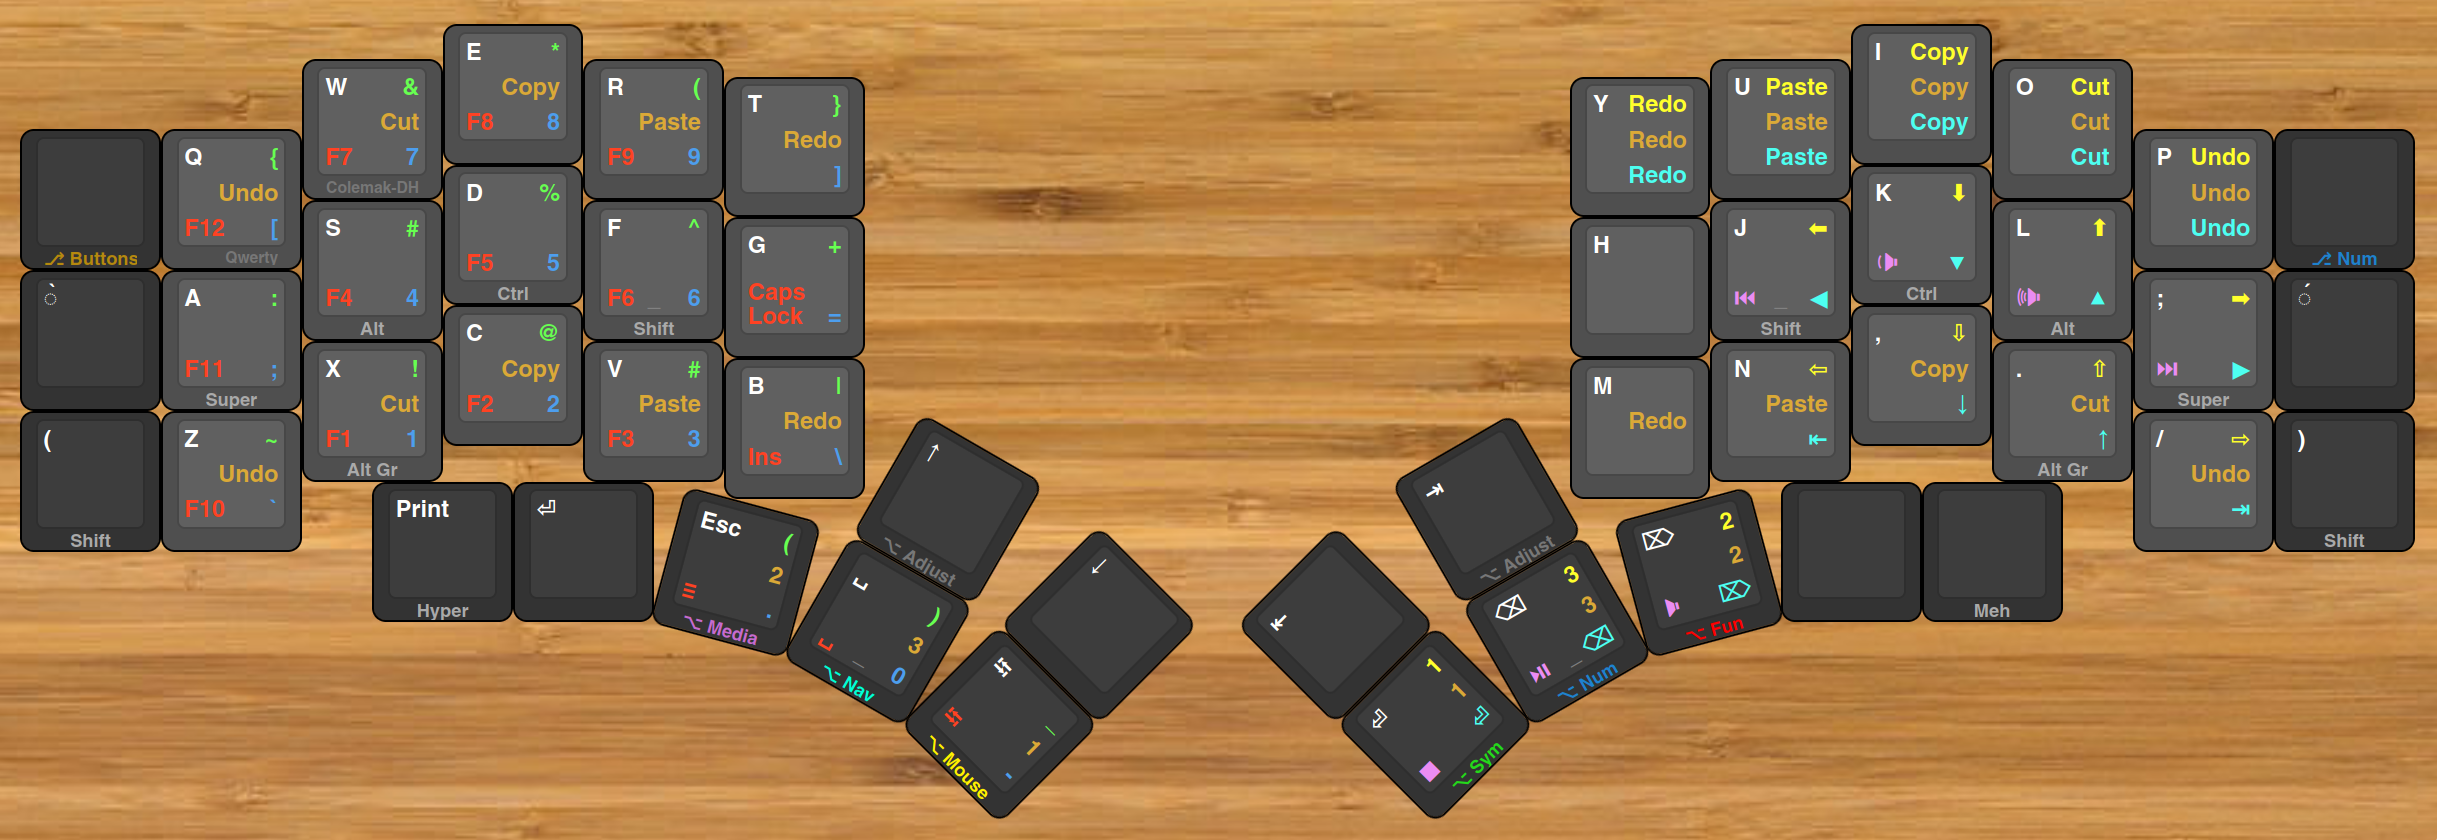
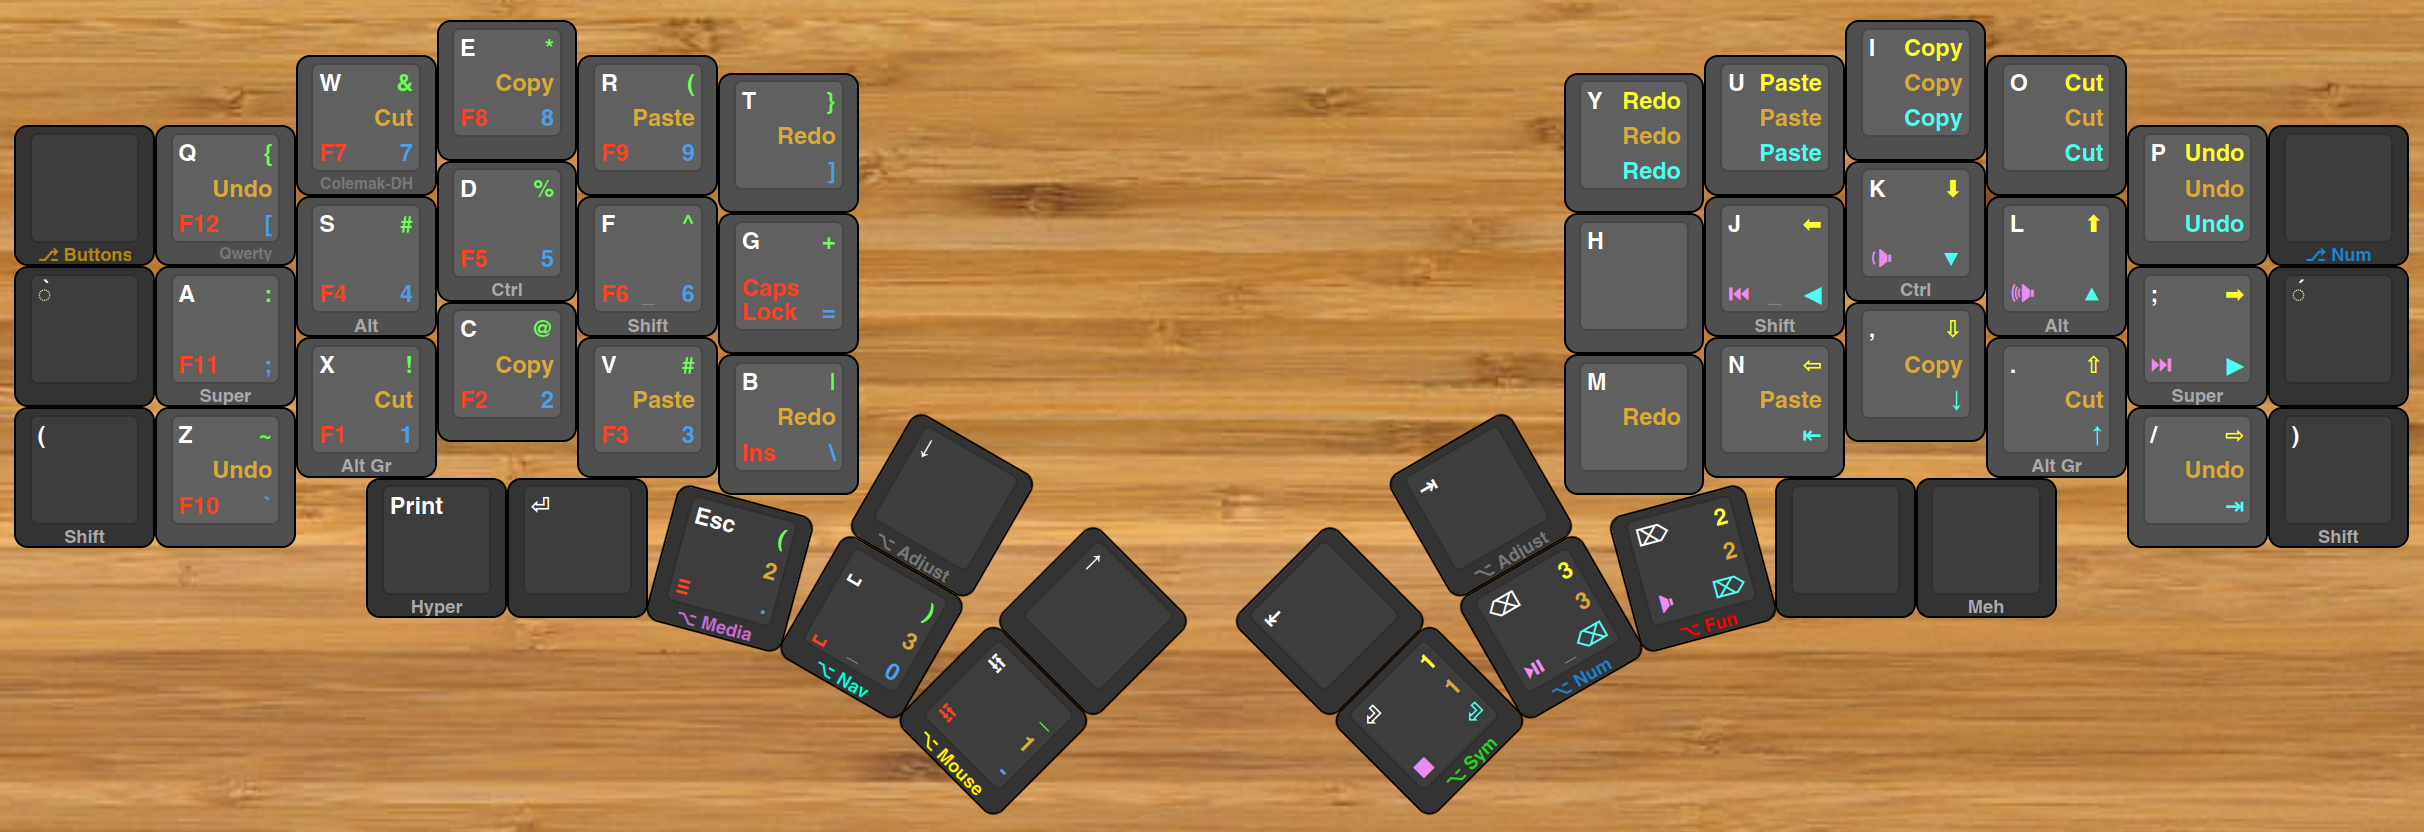
Inverted page up/down on left thumb cluster

diff --git a/keymap.c b/keymap.c
@@ -46,7 +46,7 @@ enum layers {
 #define TG_BUTT TG(_BUTTON)
 // - Layer / Tap
 #define LT_ADEN LT(_ADJUST, KC_END)
-#define LT_ADPU LT(_ADJUST, KC_PGUP)
+#define LT_ADPD LT(_ADJUST, KC_PGDN)
 #define LT_MEES LT(_MEDIA, KC_ESC)
 #define LT_NASP LT(_NAVIGATION, KC_SPACE)
 #define LT_MOTA LT(_MOUSE, KC_TAB)
@@ -126,7 +126,7 @@ const uint16_t PROGMEM keymaps[][MATRIX_ROWS][MATRIX_COLS] = {
     [_QWERTY] = LAYOUT(
      TG_BUTT , KC_Q    , KC_W    , KC_E    , KC_R    , KC_T    ,                                            KC_Y    , KC_U    , KC_I    , KC_O    , KC_P    , TG_NUM  ,
      KC_GRV  , QHGA    , QHAS    , QHCD    , QHSF    , KC_G    ,                                            KC_H    , QHSJ    , QHCK    , QHAL    , QHGSCLN , KC_QUOT ,
-     KC_LSPO , KC_Z    , QHLX    , KC_C    , KC_V    , KC_B    , LT_ADPU , KC_PGDN ,    KC_HOME , LT_ADEN , KC_N    , KC_M    , KC_COMM , QHLD    , KC_SLSH , KC_RSPC ,
+     KC_LSPO , KC_Z    , QHLX    , KC_C    , KC_V    , KC_B    , LT_ADPD , KC_PGDU ,    KC_HOME , LT_ADEN , KC_N    , KC_M    , KC_COMM , QHLD    , KC_SLSH , KC_RSPC ,
                                    HYP_PRS , KC_ENT  , LT_MEES , LT_NASP , LT_MOTA ,    LT_SYEN , LT_NUBS , LT_FUDE , XXXXXXX , KC_MEH
     ),
 
@@ -136,7 +136,7 @@ const uint16_t PROGMEM keymaps[][MATRIX_ROWS][MATRIX_COLS] = {
     [_COLEMAK_DH] = LAYOUT(
      TG_BUTT , KC_Q    , KC_W    , KC_F    , KC_P    , KC_B    ,                                            KC_J    , KC_L    , KC_U    , KC_Y    , KC_SCLN , TG_NUM  ,
      KC_GRV  , QHGA    , QHAR    , QHCS    , QHST    , KC_G    ,                                            KC_M    , QHSN    , QHCE    , QHAI    , QHGO    , KC_QUOT ,
-     KC_LSPO , KC_Z    , QHLX    , KC_C    , KC_D    , KC_V    , LT_ADPU , KC_PGDN ,    KC_HOME , LT_ADEN , KC_K    , KC_H    , KC_COMM , QHLD    , KC_SLSH , KC_RSPC ,
+     KC_LSPO , KC_Z    , QHLX    , KC_C    , KC_D    , KC_V    , LT_ADPD , KC_PGDU ,    KC_HOME , LT_ADEN , KC_K    , KC_H    , KC_COMM , QHLD    , KC_SLSH , KC_RSPC ,
                                    HYP_PRS , KC_ENT  , LT_MEES , LT_NASP , LT_MOTA ,    LT_SYEN , LT_NUBS , LT_FUDE , XXXXXXX , KC_MEH
     ),
 
